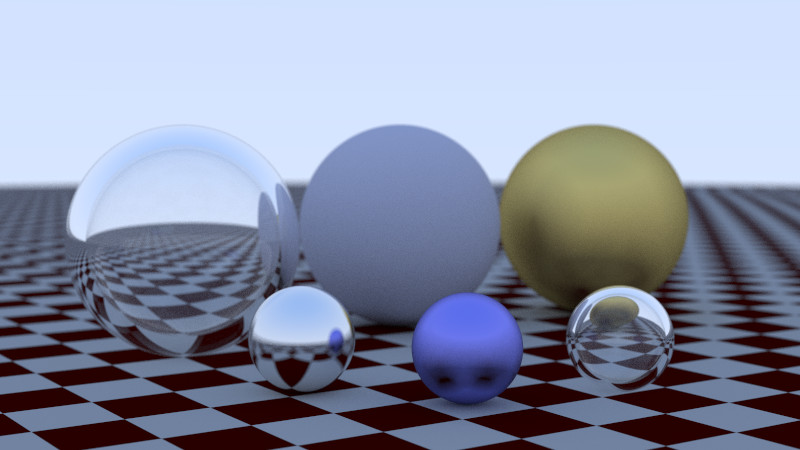
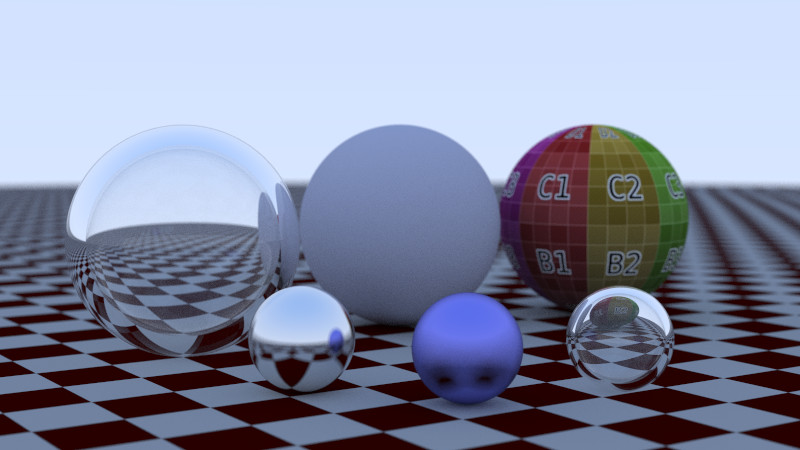
added texture

diff --git a/src/util/image.h b/src/util/image.h
@@ -1,15 +1,9 @@
 #pragma once
 
-#ifdef _MSC_VER
-#pragma warning(push, 0)
-#endif
-
 #define STB_IMAGE_IMPLEMENTATION
 #define STBI_FAILURE_USERMSG
 #include "../lib/stb_image.h"
-
 #include "../nublog.h"
-#include <cstdlib>
 
 class cImage
 {
@@ -19,10 +13,10 @@ public:
 
     cImage(const char* filename) 
     {
-        std::string filepath = "data/textures/";
+        std::string filepath = "data/texture/";
         filepath += filename;
-        if (Load(filepath.c_str())) LOG_INFO(filename, "loaded sucessfully");
-        else LOG_ERROR(filename, "not found");
+        if (Load(filepath.c_str())) LOG_INFO(filepath, "loaded sucessfully");
+        else LOG_ERROR(filepath, "not found");
     }
 
     ~cImage()
@@ -31,35 +25,46 @@ public:
         STBI_FREE(fdata);
     }
 
+
     bool Load(const char* filename)
     {
         int n = bytes_per_pixel; // ignored out param
-        bdata = stbi_load(filename, &width, &height, &n, bytes_per_pixel);
-        if(bdata == nullptr) return false;
+        fdata = stbi_loadf(filename, &width, &height, &n, bytes_per_pixel);
+        if(fdata == nullptr) return false;
 
         bytes_per_scanline = width * bytes_per_pixel;
+        ConvertToBytes();
         return true;
     }
 
-    int GetWidth() const { return (bdata == nullptr) ? 0 : width; }
-    int GetHeight() const { return (bdata == nullptr) ? 0 : height; }
 
-    const unsigned char* GetTexel(int x, int y)
+    int GetWidth() const { return (bdata == nullptr) ? 0 : width; }
+
+    int GetHeight() const 
+    { 
+        return (bdata == nullptr) ? 0 : height; 
+    }
+
+
+    const unsigned char* PixelData(int x, int y) const
     {
-        static unsigned char texel[] = { 255,0,255 };
-        if (bdata == nullptr) return texel;
+        static unsigned char magenta[] = {255, 0, 255};
+        if (bdata == nullptr) return magenta;
 
         x = clamp(x, 0, width);
         y = clamp(y, 0, height);
-        return bdata + y * bytes_per_scanline + x * bytes_per_pixel;
+        return (bdata + y * bytes_per_scanline + x * bytes_per_pixel);
     }
+
 
 private:
     const int      bytes_per_pixel = 3;
+    float*         fdata = nullptr;
     unsigned char* bdata = nullptr;
     int width = 0;
     int height = 0;
     int bytes_per_scanline = 0;
+
 
     static int clamp(int x, int low, int high)
     {
@@ -68,29 +73,26 @@ private:
         return high;
     }    
 
-    /*
-    static unsigned char float_to_byte(float value) {
+    
+    static unsigned char FloatToByte(float value) {
         if (value <= 0.0)
             return 0;
         if (1.0 <= value)
             return 255;
         return static_cast<unsigned char>(256.0 * value);
     }
-    void convert_to_bytes() {
+
+    void ConvertToBytes() {
         // Convert the linear floating point pixel data to bytes, storing the resulting byte
         // data in the `bdata` member.
-        int total_bytes = image_width * image_height * bytes_per_pixel;
+        int total_bytes = width * height * bytes_per_pixel;
         bdata = new unsigned char[total_bytes];
         // Iterate through all pixel components, converting from [0.0, 1.0] float values to
         // unsigned [0, 255] byte values.
         auto *bptr = bdata;
         auto *fptr = fdata;
         for (auto i=0; i < total_bytes; i++, fptr++, bptr++)
-            *bptr = float_to_byte(*fptr);
+            *bptr = FloatToByte(*fptr);
     }
-    */
+    
 };
-
-#ifdef _MSC_VER
-#pragma warning(pop)
-#endif

diff --git a/src/main.cpp b/src/main.cpp
@@ -20,12 +20,17 @@ int main() {
     _CrtSetReportFile(_CRT_ASSERT, _CRTDBG_FILE_STDERR);
     //_CrtSetBreakAlloc(000);
     HINSTANCE instance = GetModuleHandle(0);
-    
+
+
     // scene setup ----------------------------------------------
     auto tex_solidDrkRed   = make_shared<cSolidColor>(cRGB(0.05f, 0.0f, 0.0f));
     auto tex_solidDrkGray  = make_shared<cSolidColor>(cRGB(0.4f, 0.4f, 0.4f));
     auto tex_checkered     = make_shared<cCheckerTexture>(0.32f, tex_solidDrkRed, tex_solidDrkGray);
     
+    auto tex_earth = make_shared<cImageTexture>("uvgrid.jpg");
+    auto mat_earth = make_shared<cAlbedo>(tex_earth);
+
+
     auto mat_checkered  = make_shared<cAlbedo>(tex_checkered);
     auto mat_midGray    = make_shared<cLambertian>(cRGB(0.5f, 0.5f, 0.6f));
     auto mat_glass      = make_shared<cDielectric>(1.41);
@@ -40,7 +45,7 @@ int main() {
     world.Add(make_shared<cSphere>(cVec3(-1.25, 0.5, -1.0), 0.5, mat_glass));
     world.Add(make_shared<cSphere>(cVec3(-1.25, 0.5, -1.0), 0.44, mat_bubble));
     world.Add(make_shared<cSphere>(cVec3(0.0, 0.5, -1.2), 0.5, mat_midGray));
-    world.Add(make_shared<cSphere>(cVec3(1.1, 0.5, -1.0), 0.5, mat_brass));
+    world.Add(make_shared<cSphere>(cVec3(1.1, 0.5, -1.0), 0.5, mat_earth));
 
     world.Add(make_shared<cSphere>(cVec3(-1.2, 0.2, -0.05), 0.2, mat_steel));
     world.Add(make_shared<cSphere>(cVec3(-0.8, 0.2, 0.45), 0.2, mat_blueSteel));
@@ -59,9 +64,8 @@ int main() {
     camera.look_at = { 0.0, 0.5, -1.2 };
     camera.up = { 0.0, 1.0, 0.0 };
     camera.defocus_angle = 0.6;
-    camera.focus_dist = 4.4;
+    camera.focus_dist = 5.0;
     camera.Render(world);
     
     return 0;
 }
-

diff --git a/src/util/texture.h b/src/util/texture.h
@@ -1,4 +1,6 @@
 #pragma once
+#include "image.h"
+
 
 class cTexture
 {
@@ -30,7 +32,7 @@ private:
 class cCheckerTexture : public cTexture
 {
 public:
-    cCheckerTexture(double scale, shared_ptr<cSolidColor> _even, shared_ptr<cSolidColor> _odd)
+    cCheckerTexture(double scale, shared_ptr<cTexture> _even, shared_ptr<cTexture> _odd)
         : inv_scale(1.0 / scale), even(_even), odd(_odd) {}
 
     cRGB Value(double u, double v, const cVec3& p) const override
@@ -44,6 +46,31 @@ public:
 
 private:
     double inv_scale;
-    shared_ptr<cSolidColor> even;
-    shared_ptr<cSolidColor> odd;
+    shared_ptr<cTexture> even;
+    shared_ptr<cTexture> odd;
+};
+
+
+class cImageTexture : public cTexture
+{
+public:
+    cImageTexture(const char* filename) : image(filename) {}
+
+    cRGB Value(double u, double v, const cVec3& p) const override
+    {
+        if (image.GetHeight() <= 0) 
+            return cRGB(0.f, 0.f, 1.f);
+
+        u = cInterval(0, 1).clamp_t(u);
+        v = 1.0 - cInterval(0, 1).clamp_t(v);
+        int i = int(u * image.GetWidth());
+        int j = int(v * image.GetHeight());
+        const unsigned char* px = image.PixelData(i, j);
+
+        float color_scale = 1.f / 255.f;
+        return cRGB(color_scale * px[0], color_scale * px[1], color_scale * px[2]);
+    }
+
+private:
+    cImage image;
 };

diff --git a/src/nublog.h b/src/nublog.h
@@ -54,8 +54,8 @@
 #define LOG_INFO(loc, info) std::cout << _ec(32) << "[Info] " << loc << " " << info << _ec(0) << std::endl
 #define LOG_INFO2(info, sz, x, y) std::cout << _ec(32) << "[Info] " << info << " " << sz << " (" << x << ", " << y << ")" << _ec(0) << std::endl
 #define LOG_INFO3(info, x, y, z) std::cout << _ec(32) << "[Info] " << info << " (" << x << ", " << y << ", " << z << ")" << _ec(0) << std::endl
-#define LOG_ERROR(loc, info) std::cout << _ec(41)_ec(30) << "[Error] " << loc << "    \n" << info << _ec(0) << std::endl
-#define LOG_WARN(loc, info) std::cout << _ec(43)_ec(30) << "[Warning] " << loc << "    \n" << info << _ec(0) << std::endl
+#define LOG_ERROR(loc, info) std::cout << _ec(41)_ec(30) << "[Error] " << loc << " " << info << _ec(0) << std::endl
+#define LOG_WARN(loc, info) std::cout << _ec(43)_ec(30) << "[Warning] " << loc << " " << info << _ec(0) << std::endl
 
 #define LOG_BLOCK_START std::cout << _ec(36)
 #define LOG_BLOCK_END std::cout << _ec(0) << std::endl
